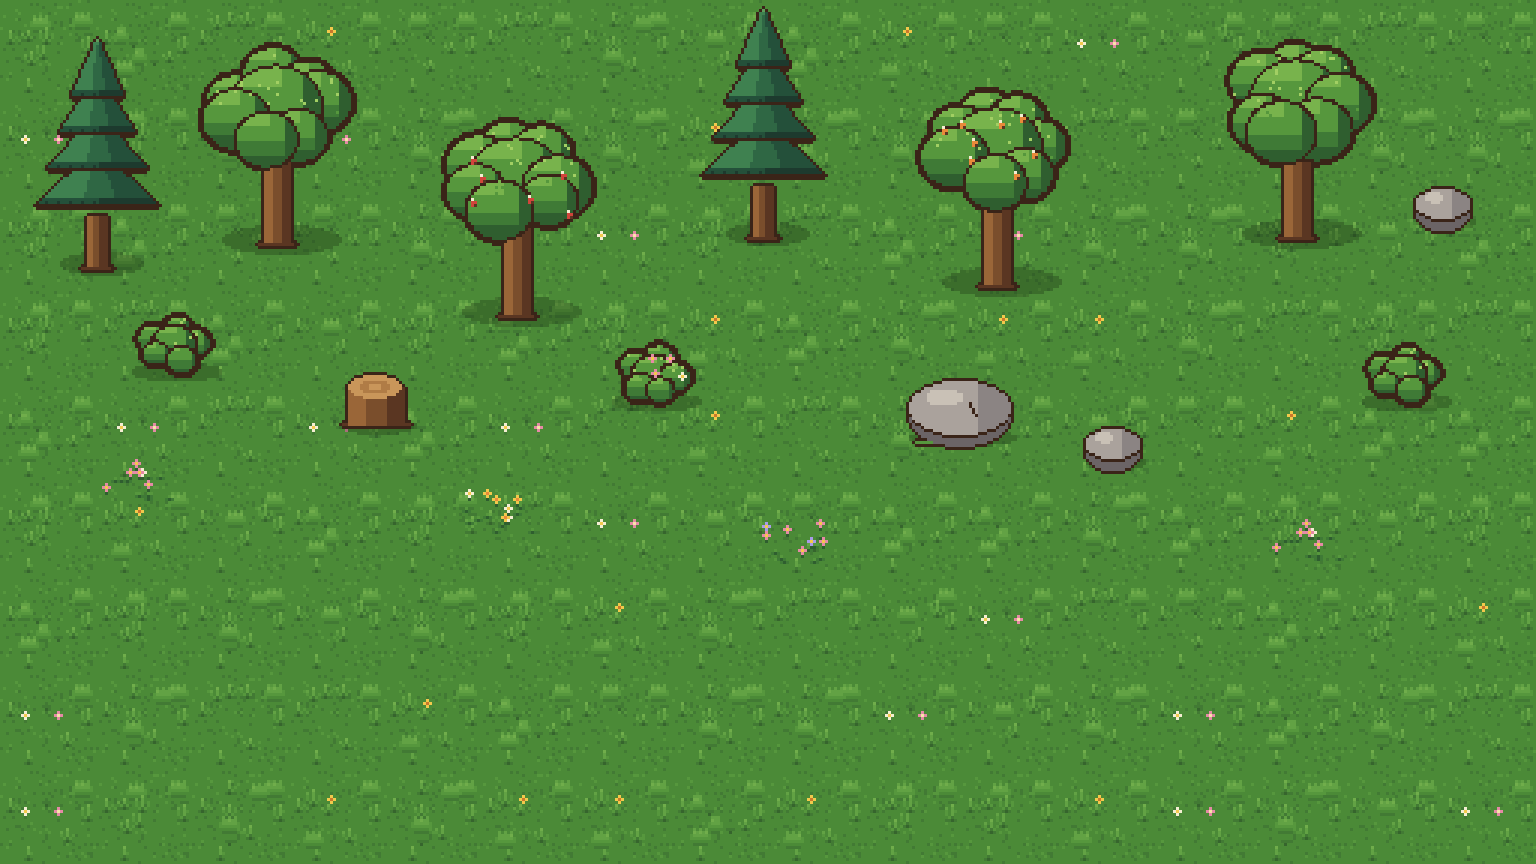
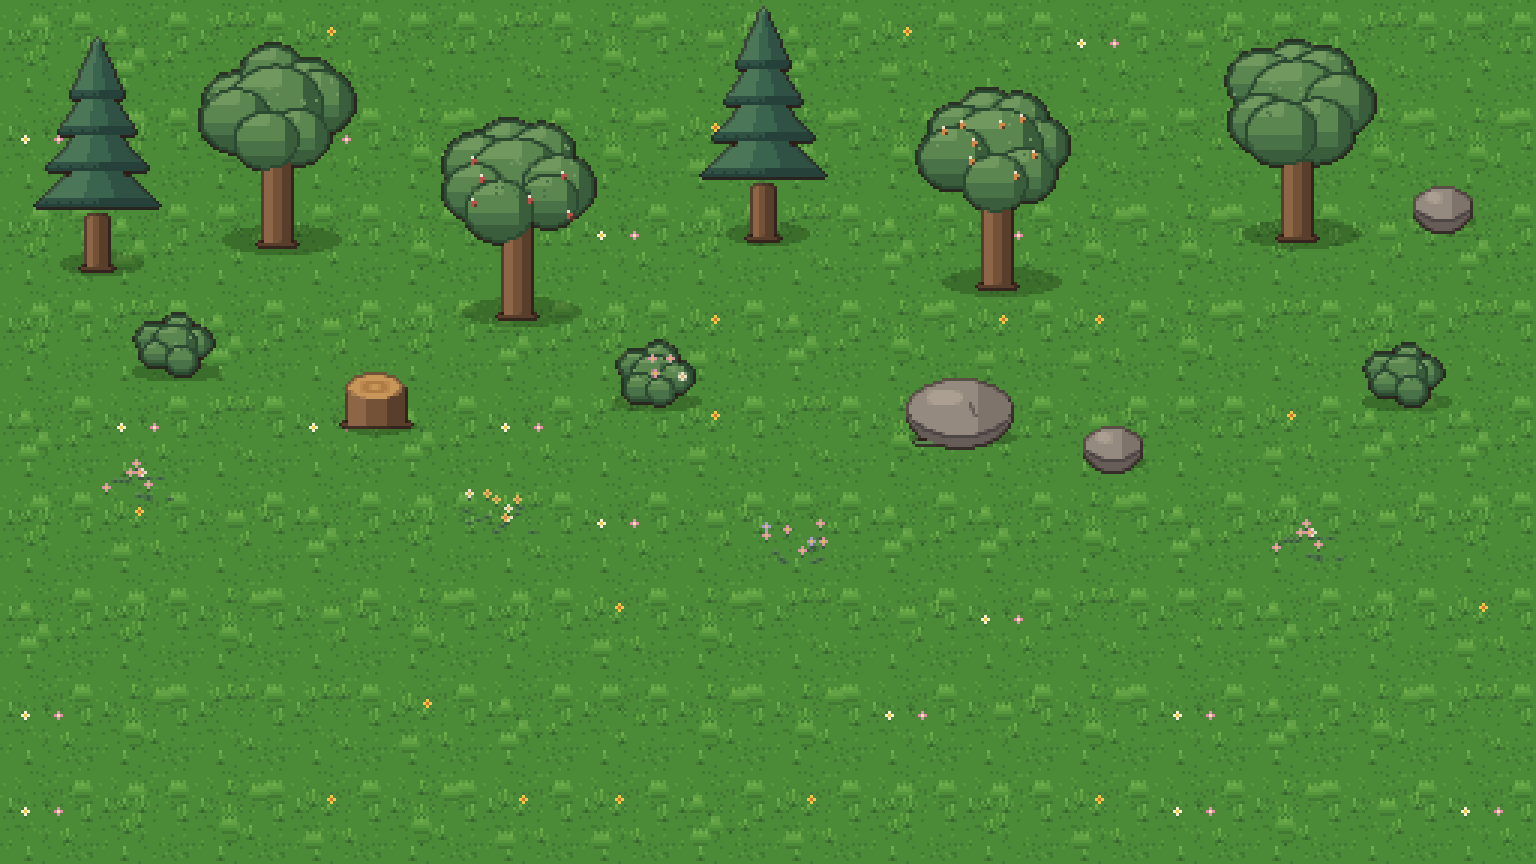
Nature set: muted palette and coloured outlines instead of near-black
Claude-Session: https://claude.ai/code/session_01UfpJh2yGrDMaNfv5mQuco1

diff --git a/tools/pixel-art/nature.py b/tools/pixel-art/nature.py
@@ -6,14 +6,15 @@ import math, os, random, sys
 from PIL import Image
 sys.path.insert(0, os.path.dirname(os.path.abspath(__file__)))
 from fountain_pier import Canvas, hx
+from soften import soften
 
 OUT = os.path.join(os.path.dirname(os.path.abspath(__file__)), '..', '..', 'client', 'Assets', 'Art', 'Custom', 'Nature')
 LINE = hx('#3a2418')
-LEAF = [hx(c) for c in ('#24452a', '#2f5e2f', '#3f7a36', '#56973d', '#78b34c', '#a2cf63')]
-PINE = [hx(c) for c in ('#1d3a2e', '#24503a', '#2f6744', '#3f8150', '#5e9e5c')]
-BARK = [hx(c) for c in ('#3b2418', '#5a3622', '#7a4e2c', '#9a6638')]
-ROCK = [hx(c) for c in ('#4a4446', '#6b6466', '#8b8483', '#aaa29c', '#c9c1b6')]
-RED, ORANGE, PINK, YEL, CREAM, LILAC = hx('#d1453b'), hx('#e98a3a'), hx('#e58aa6'), hx('#f2c94c'), hx('#f4eed2'), hx('#a99be8')
+LEAF = [hx(c) for c in ('#2c4a32', '#3a5e3c', '#4a7248', '#5c8650', '#71985e', '#88aa6e')]   # yumuşak, az doygun
+PINE = [hx(c) for c in ('#26403a', '#2f5244', '#3b644e', '#4b7658', '#628a68')]
+BARK = [hx(c) for c in ('#3e2a20', '#5a3e2c', '#745238', '#8c6646')]
+ROCK = [hx(c) for c in ('#4e4644', '#665d58', '#7e746c', '#958a7f', '#ab9f91')]
+RED, ORANGE, PINK, YEL, CREAM, LILAC = hx('#b8524a'), hx('#d08a4a'), hx('#d895a6'), hx('#dcbc5c'), hx('#e8e0c8'), hx('#a79bcf')
 
 def shadow(c, cx, cy, rx, ry):
     """Gölgeyi sonraya sakla: kontur gölgenin etrafına çizilmesin."""
@@ -21,10 +22,9 @@ def shadow(c, cx, cy, rx, ry):
 
 def finish(c, outline=True):
     if outline:
+        # renkli kontur: dış hat, komşu yüzeyin koyusu (siyah değil); sert köşeler ara tonla yumuşar
         c.outline()
-        for y in range(c.h):
-            for x in range(c.w):
-                if c.px[x, y] == (46, 30, 24, 255): c.px[x, y] = LINE
+        c.im = soften(c.im, outline_dark=(40, 30, 26), inner=False); c.px = c.im.load()
     sh = Image.new('RGBA', c.im.size, (0, 0, 0, 0))
     if getattr(c, 'shadow', None):
         cx, cy, rx, ry = c.shadow; sp = sh.load()
@@ -49,11 +49,11 @@ def blob_canopy(c, cx, cy, r, seed, pal=LEAF, lobes=7):
             if dy < -.45 and dx < .1: return pal[4]
             return pal[3]
         # küme sınırı koyu çizgi (önce koyu daire, sonra 1 px içten dolgu)
-        c.ellipse(bx, by, br, br * .9, lambda x, y: LINE)
+        c.ellipse(bx, by, br, br * .9, lambda x, y: pal[0])
         c.ellipse(bx, by, br - 1, br * .9 - 1, col)
     for _ in range(int(r * 1.2)):                         # yaprak benekleri
         x = int(cx + rng.uniform(-r * .8, r * .8)); y = int(cy + rng.uniform(-r * .7, r * .2))
-        if c.px[x, y][3] and c.px[x, y] not in (LINE,): c.put(x, y, pal[5] if y < cy else pal[3])
+        if c.px[x, y][3] and c.px[x, y] != pal[0]: c.put(x, y, pal[4] if y < cy else pal[2])
 
 def trunk(c, cx, y0, y1, w):
     for y in range(y0, y1):
@@ -72,7 +72,7 @@ def round_tree(seed=1, fruit=None):
         rng = random.Random(seed + 9)
         for _ in range(9):
             x = int(cx + rng.uniform(-18, 18)); y = int(30 + rng.uniform(-14, 12))
-            if c.px[x, y][3] and c.px[x, y] != LINE:
+            if c.px[x, y][3] and c.px[x, y] != LEAF[0]:
                 c.put(x, y, fruit); c.put(x + 1, y, fruit); c.put(x, y + 1, fruit); c.put(x + 1, y + 1, BARK[1]); c.put(x, y - 1, CREAM)
     return finish(c)
 
@@ -89,7 +89,7 @@ def pine():
                 col = PINE[3] if s < -.25 else PINE[1] if s > .35 else PINE[2]
                 if yy >= y + 4: col = PINE[0] if s > 0 else PINE[1]
                 c.put(x, yy, col)
-        for x in range(cx - w, cx + w + 1): c.put(x, y + 6, LINE)                 # kat alt çizgisi
+        for x in range(cx - w, cx + w + 1): c.put(x, y + 6, PINE[0])              # kat alt çizgisi
         for k in range(-w + 3, w - 2, 4): c.put(cx + k, y + 5, PINE[0])           # dişli kenar
     c.put(cx, 3, PINE[4]); c.put(cx, 4, PINE[3])
     return finish(c)
@@ -102,7 +102,7 @@ def bush(seed=3, flowers=None):
         rng = random.Random(seed)
         for _ in range(7):
             x = int(cx + rng.uniform(-10, 10)); y = int(15 + rng.uniform(-8, 3))
-            if c.px[x, y][3] and c.px[x, y] != LINE:
+            if c.px[x, y][3] and c.px[x, y] != LEAF[0]:
                 col = rng.choice(flowers)
                 for dx, dy in ((0, -1), (-1, 0), (1, 0), (0, 1)): c.put(x + dx, y + dy, col)
                 c.put(x, y, YEL if col != YEL else CREAM)
@@ -118,9 +118,9 @@ def rock(big=True):
     for y in range(int(cy), int(cy + ry + 3)):                                      # üst/ön sınırı
         for x in range(cx - rx, cx + rx + 1):
             if ((x + .5 - cx) / rx) ** 2 + ((y + .5 - cy) / (ry - 1)) ** 2 <= 1 < ((x + .5 - cx) / rx) ** 2 + ((y + 1.5 - cy) / (ry - 1)) ** 2:
-                c.put(x, y + 1, LINE)
+                c.put(x, y + 1, ROCK[0])
     if big:
-        for k in range(5): c.put(cx + 3 + k // 2, int(cy - 2 + k), LINE)            # çatlak
+        for k in range(5): c.put(cx + 3 + k // 2, int(cy - 2 + k), ROCK[1])            # çatlak
         for x in range(cx - rx + 2, cx - rx + 8): c.put(x, int(cy + ry + 1), LEAF[3])  # yosun
     return finish(c)
 
